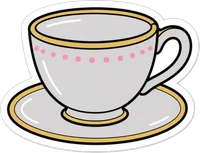
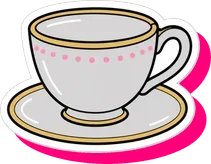
perf: Bake the stickers' pink throw into their images instead of masking it every frame.

diff --git a/src/styles/components/home.css b/src/styles/components/home.css
@@ -566,21 +566,8 @@
     height: 100%;
   }
 
-  /* A die-cut sticker: the art over a pink block of its own shape. */
-  .home-prop-face::before,
-  .home-prop-face::after {
-    position: absolute;
-    inset: 0;
-    content: '';
-  }
-
-  .home-prop-face::before {
-    background: var(--color-pink);
-    mask: var(--print) center / contain no-repeat;
-    translate: var(--size-home-sticker-throw) var(--size-home-sticker-throw);
-  }
-
-  .home-prop-face::after {
+  /* A die-cut sticker with its pink throw baked in, so each frame paints one image, never a mask. */
+  .home-prop-face {
     background: var(--print) center / contain no-repeat;
   }
 
@@ -620,10 +607,6 @@
 
   /* The things are decoration; in forced colors the jar keeps its button edge. */
   @media (forced-colors: active) {
-    .home-prop-face::before {
-      display: none;
-    }
-
     button.home-prop,
     .home-hopper-press {
       border: var(--block-edge) solid ButtonText;

diff --git a/src/styles/global.css b/src/styles/global.css
@@ -606,7 +606,6 @@
   --size-home-hopper-h: 112px;
   --size-home-hopper-w-phone: 56px;
   --size-home-hopper-h-phone: 80px;
-  --size-home-sticker-throw: 5px;
   --size-home-ledge-h: 36px;
   --size-home-ledge-h-phone: 24px;
   --size-home-post-w: 28px;

diff --git a/docs/STYLEGUIDE.md b/docs/STYLEGUIDE.md
@@ -954,7 +954,7 @@ Enforced by `tests/home-hero.spec.ts` and `tests/motion.spec.ts`.
   throw. From `pair` (22.5rem) the roles and stats stay side by side, the first
   `--spacing-home-phone-climb` lower. Homepage only.
 - Alice's things (jar, book, picture, watch, teacup) are die-cut stickers with
-  a pink throw (ink in light mode) rising in the lanes beside the column
+  a pink throw baked into the image (pink in both modes, like the bunny) rising in the lanes beside the column
   (`--spacing-home-lane`). Below `md` there are no lanes and they pass behind
   the bricks; the jar rests at the top of the fall.
 - Two controls among the decoration: the jar ("Let Go of the Jar") and the
